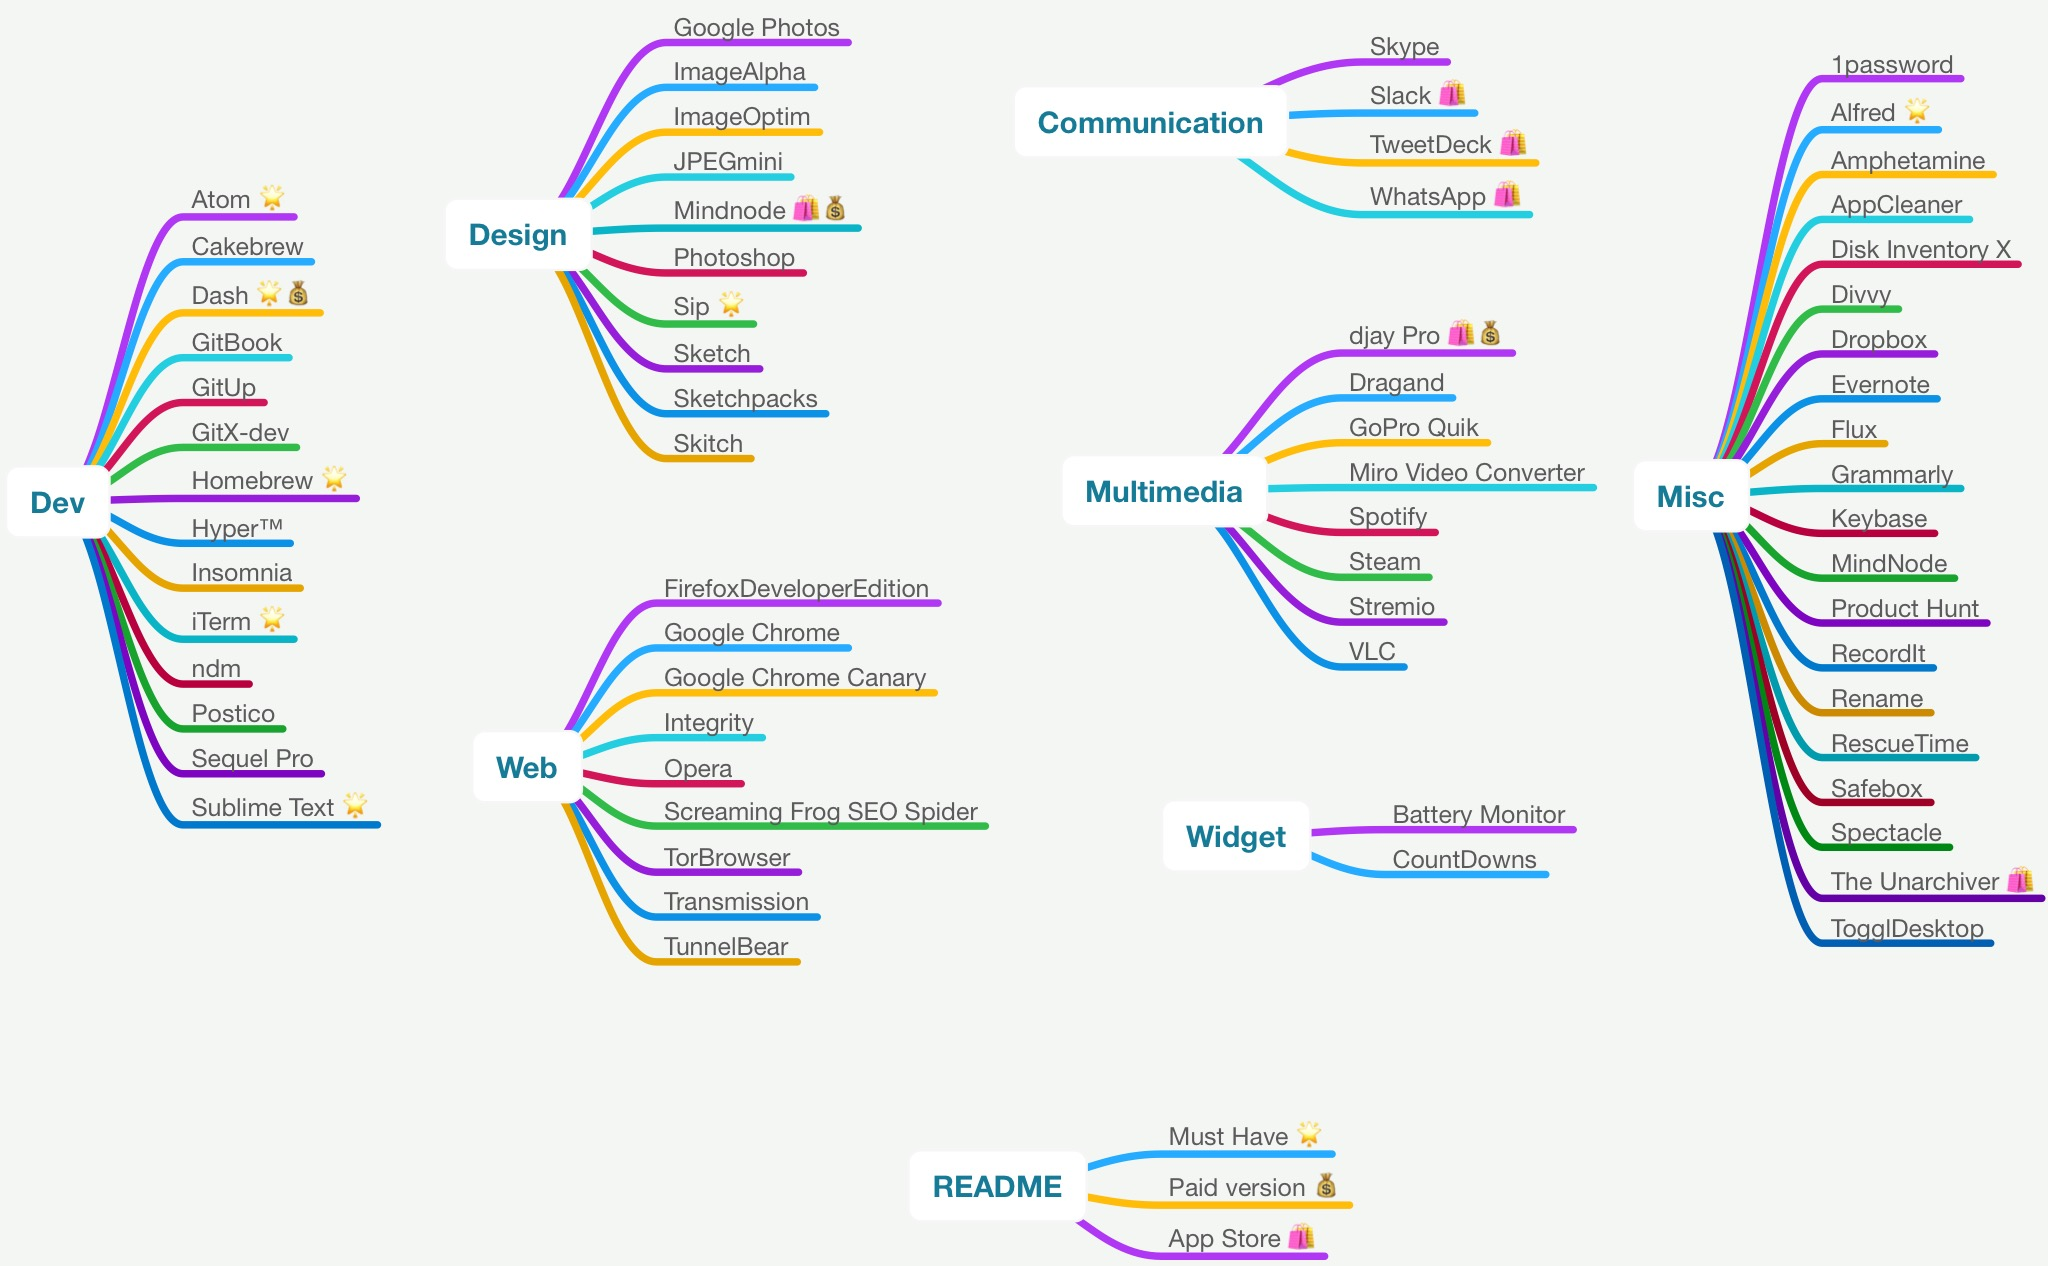
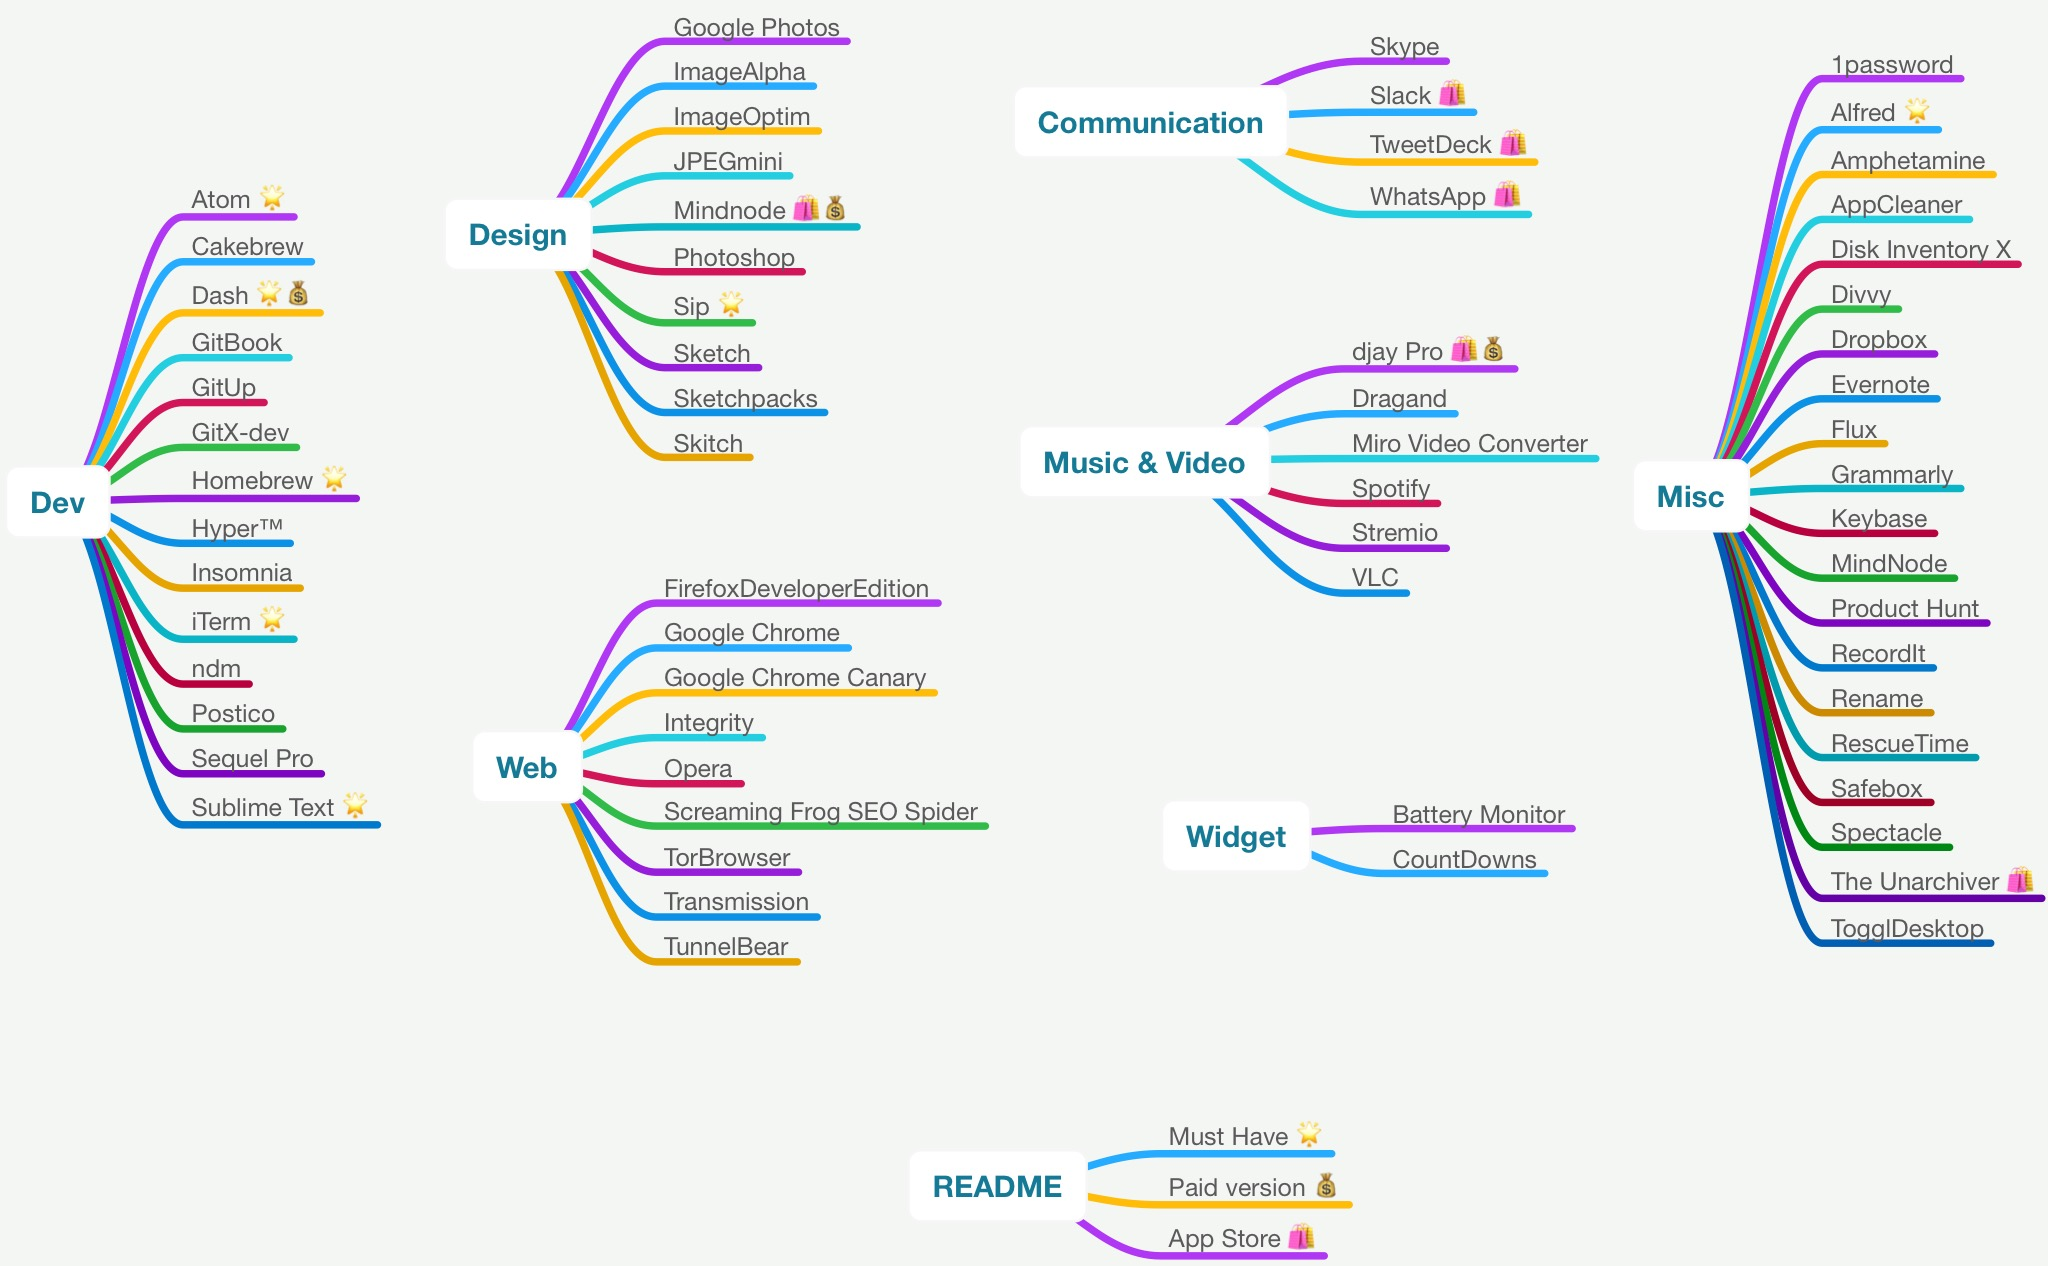
:crystal_ball:

diff --git a/README.md b/README.md
@@ -2,7 +2,7 @@
 
 Here is the list of all the apps I use to be efficients as a front-end developer.
 
-> Design better, code faster and ship daily.
+> Design better, code faster & ship daily.
 
 [![](macos-front-end.mindnode/QuickLook/Preview.jpg)](https://my.mindnode.com/zRQUDVrKyQGW2TxZ33k8szsZEynEsaoKHeLWx2XB)
 
@@ -31,9 +31,9 @@ Here is the list of all the apps I use to be efficients as a front-end developer
 - ImageOptim
 - JPEGmini
 - [MindNode 🛍💰](https://itunes.apple.com/fr/app/mindnode-2-delightful-mind-mapping/id992076693?l=en&mt=12)
-- Photoshop
+- [Photoshop 💰]()
 - [Sip 🌟](https://sipapp.io/) The best color picker for Mac for collecting, organizing & sharing palettes.
-- Sketch
+- [Sketch 💰]()
 - [Sketchpacks](https://www.sketchpacks.com/) Browse, manage, and auto-update your Sketch plugins from the menu bar.
 - Skitch
 
@@ -48,13 +48,12 @@ Here is the list of all the apps I use to be efficients as a front-end developer
 - TorBrowser
 - Transmission
 - TunnelBear
-- TweetDeck
 
 ## Communication
 
-- Skype
+- [Skype](https://www.skype.com) text message and video chat application.
 - [Slack 🛍](https://itunes.apple.com/fr/app/slack/id803453959?l=en&mt=12)
-- [TweetDeck 🛍](https://itunes.apple.com/fr/app/tweetdeck-by-twitter/id485812721?l=en&mt=12)
+- [TweetDeck 🛍](https://itunes.apple.com/fr/app/tweetdeck-by-twitter/id485812721?l=en&mt=12) Twitter client.
 - [WhatsApp 🛍](https://itunes.apple.com/fr/app/whatsapp-desktop/id1147396723?l=en&mt=12)
 
 ## Widget
@@ -62,16 +61,14 @@ Here is the list of all the apps I use to be efficients as a front-end developer
 - Battery Monitor
 - CountDowns
 
-## Multimedia
+## Music & Video
 
-- [djay Pro 🛍💰](https://itunes.apple.com/fr/app/djay-pro/id947578651?l=en&mt=12)
-- Dragand
-- GoPro Quik
-- [Miro Video Converter](http://www.mirovideoconverter.com/)
-- Spotify
-- Steam
-- Stremio
-- VLC
+- __[djay Pro 🛍💰](https://itunes.apple.com/fr/app/djay-pro/id947578651?l=en&mt=12)__ The #1 DJ Software for performing DJs, integrated with iTunes and Spotify.
+- __[Dragand](http://dragand.watch/)__ Download your subtitles of your favorite series by drag and drop.
+- __[Miro Video Converter](http://www.mirovideoconverter.com/)__ Convert almost any video to `MP4`, `WebM`, `Ogg`…
+- __[Spotify](https://www.spotify.com)__ A digital music service that gives you access to millions of songs.
+- __[Stremio](https://www.strem.io/)__ Watch videos, movies, TV series and TV channels instantly.
+- __[VLC](https://www.videolan.org/vlc/download-macosx.fr.html)__ Free and open-source media player.
 
 ## Misc
 
@@ -87,7 +84,7 @@ Here is the list of all the apps I use to be efficients as a front-end developer
 - Grammarly
 - Keybase
 - MindNode
-- Product Hunt
+- [Product Hunt](https://github.com/producthunt/producthunt-osx/) Discover your next favorite thing, surfacing the latest in tech, books, games, and podcasts.
 - RecordIt
 - Rename
 - RescueTime
